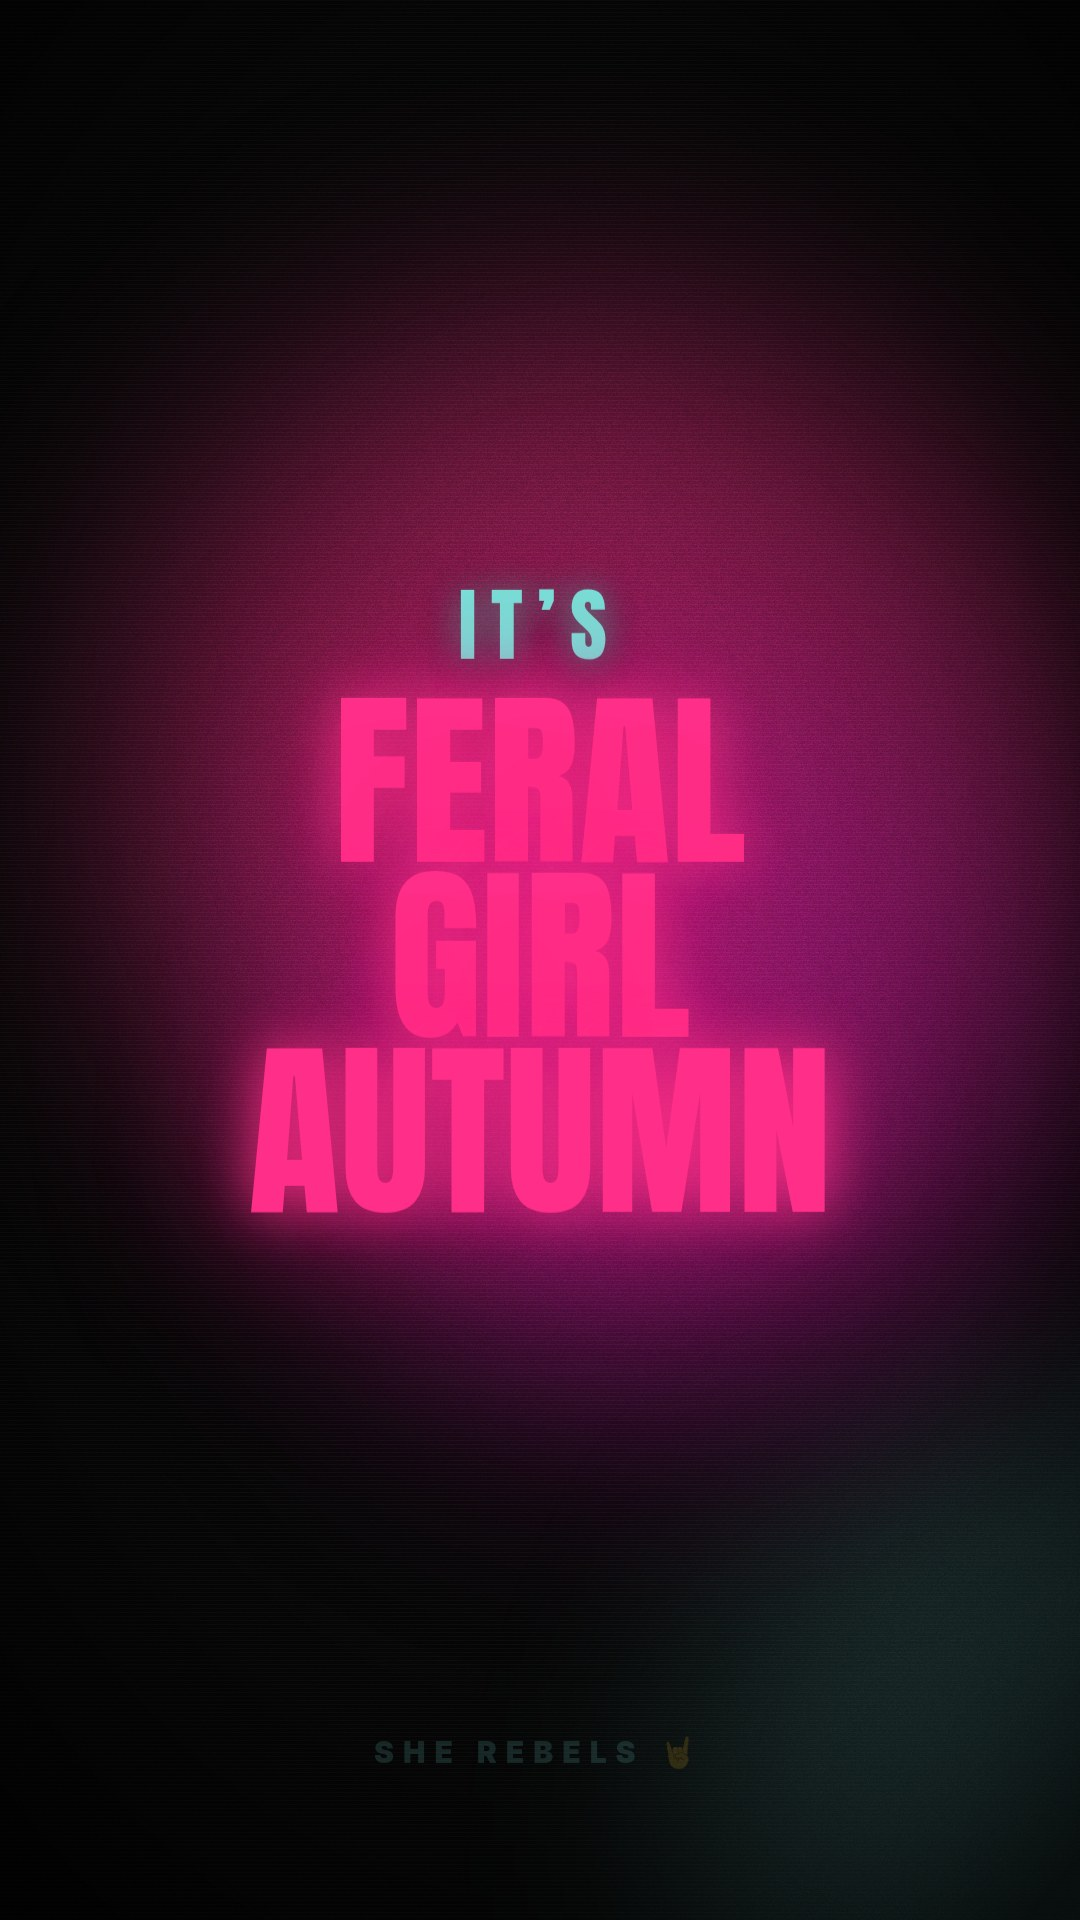
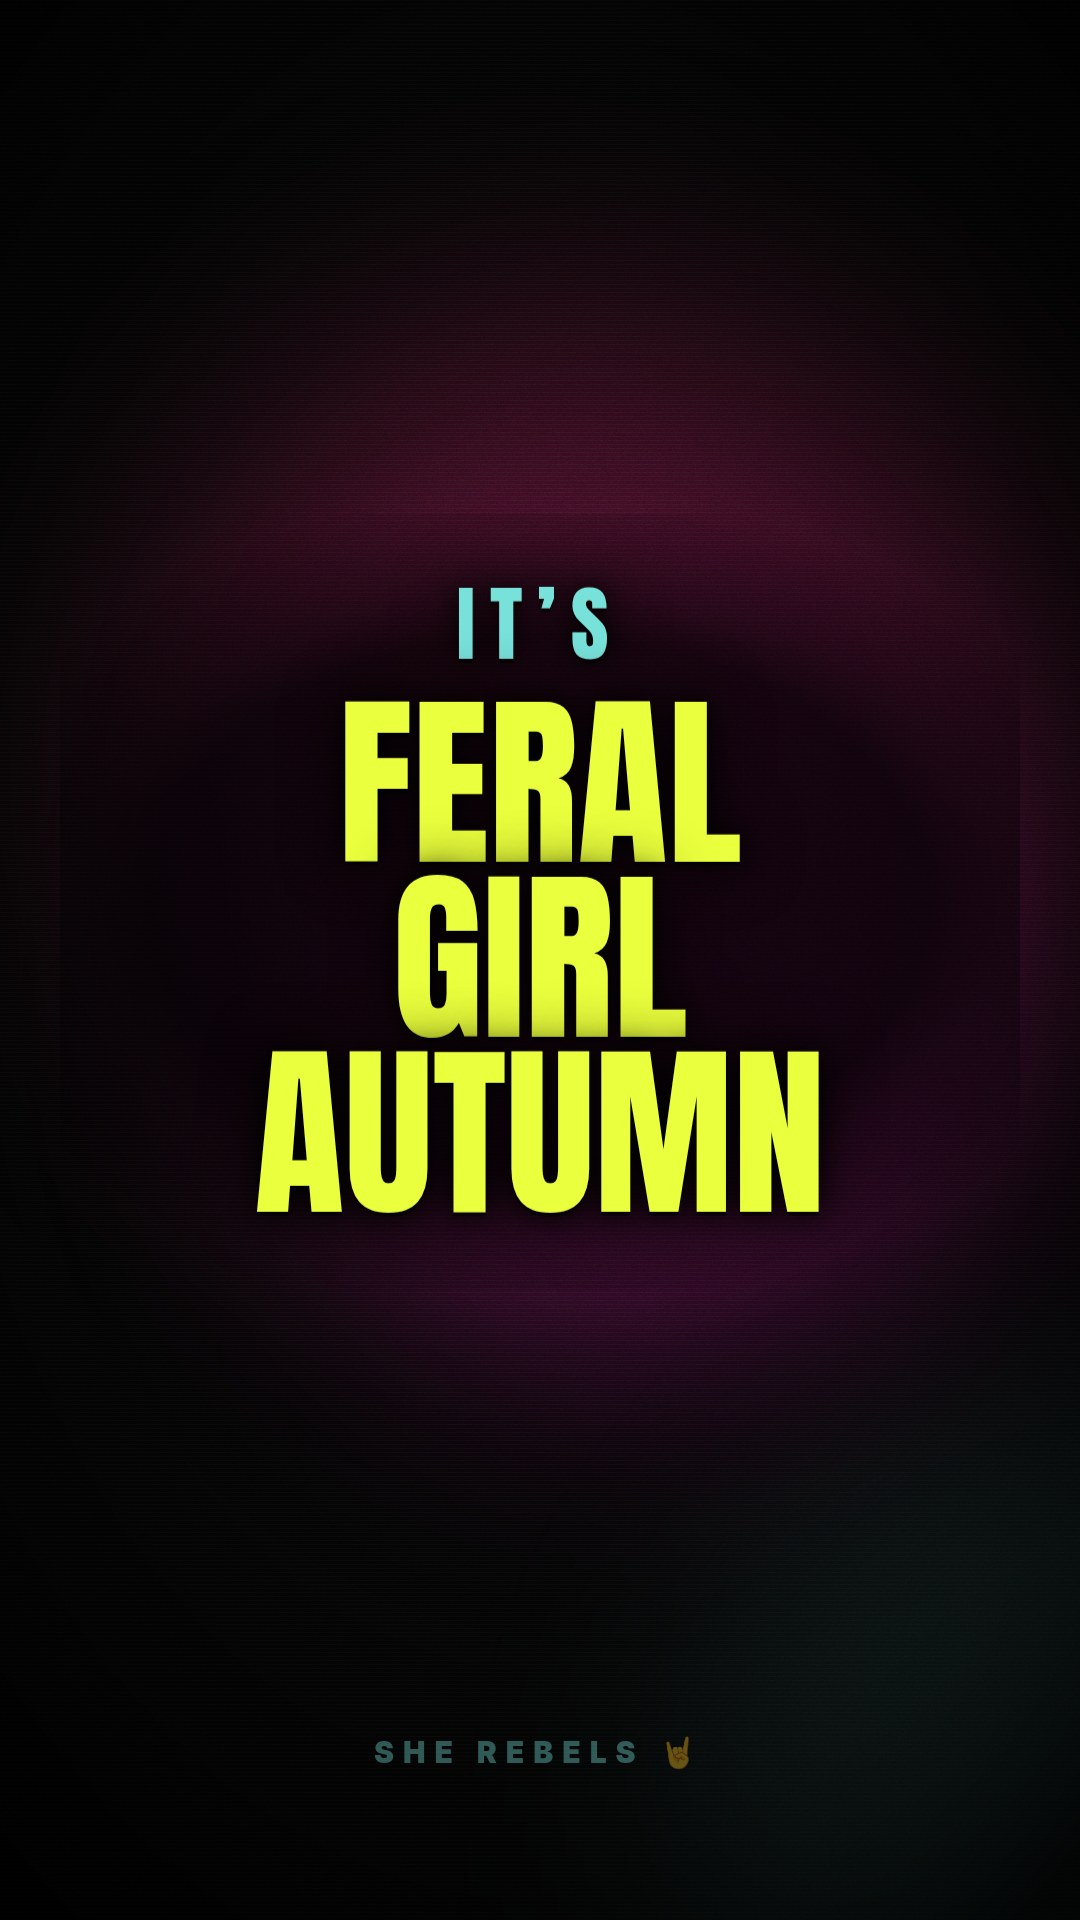
Refresh reel source and covers from the legibility render
Claude-Session: https://claude.ai/code/session_011qks84yBQ1G3Ajz67hsPdu

diff --git a/content/reels/feral-girl-autumn/src/reel.html b/content/reels/feral-girl-autumn/src/reel.html
@@ -4,21 +4,23 @@
 html,body{margin:0;padding:0;background:#000;overflow:hidden}
 #stage{position:relative;width:1080px;height:1920px;background:#0a0a0a;overflow:hidden}
 .blob{position:absolute;border-radius:50%;filter:blur(130px);will-change:transform}
-#b1{width:940px;height:940px;background:#ff2e88;opacity:.60}
-#b2{width:860px;height:860px;background:#78e2da;opacity:.42}
-#b3{width:760px;height:760px;background:#b0179c;opacity:.55}
-#vig{position:absolute;inset:0;background:radial-gradient(ellipse 78% 66% at 50% 46%,rgba(0,0,0,0) 0%,rgba(0,0,0,.34) 60%,rgba(0,0,0,.86) 100%)}
+#b1{width:940px;height:940px;background:#ff2e88;opacity:.34}
+#b2{width:860px;height:860px;background:#78e2da;opacity:.26}
+#b3{width:760px;height:760px;background:#b0179c;opacity:.34}
+#vig{position:absolute;inset:0;background:radial-gradient(ellipse 78% 66% at 50% 46%,rgba(0,0,0,0) 0%,rgba(0,0,0,.46) 58%,rgba(0,0,0,.92) 100%)}
 #grain{position:absolute;inset:-200px;opacity:.14;mix-blend-mode:overlay;background-repeat:repeat}
 #scan{position:absolute;inset:0;opacity:.045;background:repeating-linear-gradient(to bottom,rgba(255,255,255,.9) 0 1px,transparent 1px 4px)}
-#flash{position:absolute;inset:0;background:#ff2e88;opacity:0;mix-blend-mode:screen}
-.card{position:absolute;left:78px;right:78px;top:47%;text-align:center;opacity:0;will-change:transform,opacity}
+#flash{position:absolute;inset:0;background:#eaff3d;opacity:0;mix-blend-mode:screen}
+.card{position:absolute;left:60px;right:60px;top:47%;text-align:center;opacity:0;padding:70px 40px;
+  will-change:transform,opacity;
+  background:radial-gradient(ellipse 74% 62% at 50% 50%,rgba(4,4,6,.80) 0%,rgba(4,4,6,.66) 52%,rgba(4,4,6,0) 80%)}
 .ln{font-family:Anton,sans-serif;text-transform:uppercase;color:#fff;line-height:1.0;white-space:nowrap;
-  text-shadow:0 8px 44px rgba(0,0,0,.92),0 2px 6px rgba(0,0,0,.85)}
-.pink{color:#ff2e88;text-shadow:0 0 38px rgba(255,46,136,.8),0 8px 44px rgba(0,0,0,.85)}
-.cy{color:#78e2da;text-shadow:0 0 34px rgba(120,226,218,.65),0 8px 44px rgba(0,0,0,.85)}
-.yl{color:#eaff3d;text-shadow:0 0 36px rgba(234,255,61,.7),0 8px 44px rgba(0,0,0,.85)}
+  text-shadow:0 4px 0 rgba(0,0,0,.55),0 0 26px rgba(0,0,0,.95),0 0 60px rgba(0,0,0,.8)}
+.pink{color:#eaff3d;text-shadow:0 4px 0 rgba(0,0,0,.55),0 0 26px rgba(0,0,0,.95),0 0 60px rgba(0,0,0,.8)}
+.cy{color:#78e2da;text-shadow:0 4px 0 rgba(0,0,0,.55),0 0 26px rgba(0,0,0,.95),0 0 60px rgba(0,0,0,.8)}
+.yl{color:#eaff3d;text-shadow:0 4px 0 rgba(0,0,0,.55),0 0 26px rgba(0,0,0,.95),0 0 60px rgba(0,0,0,.8)}
 .hk{font-family:Inter,sans-serif;font-weight:900;letter-spacing:-.025em;line-height:1.04;white-space:nowrap;
-  text-shadow:0 8px 44px rgba(0,0,0,.95)}
+  text-shadow:0 4px 0 rgba(0,0,0,.55),0 0 26px rgba(0,0,0,.95),0 0 60px rgba(0,0,0,.8)}
 #mark{position:absolute;left:0;right:0;bottom:150px;text-align:center;font-family:Inter,sans-serif;
   font-weight:900;font-size:30px;letter-spacing:.30em;color:#78e2da;opacity:0;text-transform:uppercase}
 </style></head><body>
@@ -45,40 +47,43 @@ for (const [n,b64] of Object.entries(window.FONTS)) {
 
 const S = [
  {a:0.0 ,b:3.0 ,type:'hook'},
- {a:3.0 ,b:4.8 ,fs:165,L:['<span class="pink">F#ck</span>','hot girl summer.']},
- {a:4.8 ,b:8.0 ,type:'drop'},
- {a:8.0 ,b:10.3,fs:120,L:['I’m over 40','+ ADHD','+ <span class="cy">perimenopause.</span>']},
- {a:10.3,b:13.2,fs:106,L:['Nobody warned us','these two would team up','like a <span class="pink">villain origin story.</span>']},
- {a:13.2,b:15.0,fs:140,L:['One takes','your focus.']},
- {a:15.0,b:17.7,fs:120,L:['The other takes','whatever <span class="yl">f#cks you','had left.</span>']},
- {a:17.7,b:19.9,fs:126,L:['I remember being','a fully functional adult.']},
- {a:19.9,b:22.0,fs:150,L:['Just kidding.','<span class="pink">I don’t remember.</span>']},
- {a:22.0,b:24.4,fs:132,L:['I don’t remember','walking into','this room either.']},
- {a:24.4,b:26.5,fs:180,L:['I cried at','<span class="cy">Costco.</span>']},
- {a:26.5,b:29.4,fs:106,L:['My hormones and dopamine','went on vacation without me.','<span class="pink">Ash-holes.</span>']},
- {a:29.4,b:31.6,fs:132,L:['<span class="cy">Unfiltered</span>','is our new','default mode.']},
- {a:31.6,b:34.3,fs:112,L:['Uniform: sweatpants','and an attitude.','<span class="pink">Any attitude, anytime.</span>']},
- {a:34.3,b:36.3,fs:150,L:['Say no','like it’s <span class="cy">cardio.</span>']},
- {a:36.3,b:39.0,fs:106,L:['Saying the quiet parts','out loud is our','<span class="yl">social currency.</span>']},
- {a:39.0,b:42.3,fs:100,L:['Let AI do the boring crap','so your <span class="yl">3 good brain hours</span>','go to what matters.']},
- {a:42.3,b:44.0,fs:160,L:['You’re not','broken.']},
- {a:44.0,b:48.0,fs:88 ,L:['You’re running an outdated system','never built for neurodivergent,','<span class="pink">perimenopausal goblins</span>','<span class="pink">on wrecking balls.</span>']},
- {a:48.0,b:50.4,fs:112,L:['Drop your','<span class="cy">feral girl autumn rule</span>','below.']},
- {a:50.4,b:53.4,fs:132,L:['Follow me into','<span class="pink">feral girl autumn.</span>','<span style="font-size:1.15em">🤘</span>']},
+ {a:3.0 ,b:5.0 ,fs:170,L:['<span class="yl">F#ck</span>','hot girl summer.']},
+ {a:5.0 ,b:8.4 ,type:'drop'},
+ {a:8.4 ,b:11.0,fs:130,L:['I’m over 40','+ ADHD','+ <span class="cy">perimenopause.</span>']},
+ {a:11.0,b:13.8,fs:120,L:['Nobody warned us','these two would team up','like a <span class="yl">villain origin story.</span>']},
+ {a:13.8,b:15.8,fs:150,L:['One takes','your focus.']},
+ {a:15.8,b:18.4,fs:140,L:['The other takes','whatever <span class="yl">f#cks</span>','<span class="yl">you had left.</span>']},
+ {a:18.4,b:20.6,fs:135,L:['I remember being','a fully','functional adult.']},
+ {a:20.6,b:23.0,fs:150,L:['Just kidding.','<span class="yl">I can’t remember ship.</span>']},
+ {a:23.0,b:25.2,fs:185,L:['I cried at','<span class="cy">Costco.</span>']},
+ {a:25.2,b:27.8,fs:140,L:['My hormones','and dopamine','went on vacation.']},
+ {a:27.8,b:30.0,fs:170,L:['Without me.','<span class="yl">Ash-holes.</span>']},
+ {a:30.0,b:32.2,fs:150,L:['<span class="cy">Unfiltered</span>','is the new','default mode.']},
+ {a:32.2,b:34.8,fs:140,L:['Uniform: sweatpants','and an attitude.']},
+ {a:34.8,b:36.8,fs:150,L:['<span class="yl">Any attitude.</span>','<span class="yl">Anytime.</span>']},
+ {a:36.8,b:38.8,fs:160,L:['Say no','like it’s <span class="cy">cardio.</span>']},
+ {a:38.8,b:41.4,fs:130,L:['Saying the quiet parts','out loud is our','<span class="yl">social currency.</span>']},
+ {a:41.4,b:43.6,fs:150,L:['Let AI do','the boring crap.']},
+ {a:43.6,b:46.4,fs:130,L:['So your <span class="yl">3 good brain hours</span>','go to','what matters.']},
+ {a:46.4,b:48.4,fs:185,L:['You’re not','broken.']},
+ {a:48.4,b:51.0,fs:135,L:['You’re running','an outdated system','never built for you.']},
+ {a:51.0,b:54.4,fs:135,L:['Neurodivergent,','<span class="yl">perimenopausal goblins</span>','on wrecking balls.']},
+ {a:54.4,b:56.8,fs:140,L:['Drop your','<span class="cy">feral girl autumn rule</span>','below.']},
+ {a:56.8,b:59.8,fs:145,L:['Follow me into','<span class="yl">feral girl autumn.</span>','<span style="font-size:1.15em">🤘</span>']},
 ];
-const DUR = 53.4, MAXW = 924, MAXH = 1180;
+const DUR = 59.8, MAXW = 900, MAXH = 1120;
 
 const wrap=document.getElementById('cards');
 const els = S.map(s=>{
   const d=document.createElement('div'); d.className='card';
   if(s.type==='hook'){
-    d.innerHTML='<div class="hk" id="hk1" style="font-size:100px;color:#fff">Doctor: it’s perimenopause</div>'+
+    d.innerHTML='<div class="hk" id="hk1" style="font-size:104px;color:#ffffff">Doctor: it’s perimenopause</div>'+
                 '<div class="hk yl" id="hk2" style="font-size:118px;margin-top:44px">ADHD: good luck, b!tch</div>';
   } else if(s.type==='drop'){
-    d.innerHTML='<div class="ln cy" style="font-size:80px;letter-spacing:.18em;margin-bottom:30px">It’s</div>'+
-                '<div class="ln pink" id="dropTxt" style="font-size:190px;line-height:.92">Feral</div>'+
-                '<div class="ln pink dropL" style="font-size:190px;line-height:.92">Girl</div>'+
-                '<div class="ln pink dropL" style="font-size:190px;line-height:.92">Autumn</div>';
+    d.innerHTML='<div class="ln cy" style="font-size:82px;letter-spacing:.18em;margin-bottom:30px">It’s</div>'+
+                '<div class="ln yl" style="font-size:186px;line-height:.94">Feral</div>'+
+                '<div class="ln yl" style="font-size:186px;line-height:.94">Girl</div>'+
+                '<div class="ln yl" style="font-size:186px;line-height:.94">Autumn</div>';
   } else {
     d.innerHTML = s.L.map(l=>`<div class="ln" style="font-size:${s.fs}px">${l}</div>`).join('');
   }
@@ -113,7 +118,7 @@ window.render = function(t){
   const f=Math.floor(t*30);
   GR.style.transform=`translate(${(f*67)%220-110}px,${(f*113)%220-110}px)`;
   const dp=S[2];
-  FL.style.opacity = (t>=dp.a && t<dp.a+0.32) ? String(0.6*(1-(t-dp.a)/0.32)) : '0';
+  FL.style.opacity = (t>=dp.a && t<dp.a+0.32) ? String(0.34*(1-(t-dp.a)/0.32)) : '0';
   MK.style.opacity = t>6.2 ? String(0.5*ease((t-6.2)/1.2)) : '0';
 
   els.forEach((el,i)=>{
@@ -134,8 +139,7 @@ window.render = function(t){
       if(k<0.5) sc=0.60+0.46*ease(k/0.5);
       const sh=k<0.55?(1-k/0.55)*14:0;
       y += sh*Math.sin(k*58);
-      const g=`0 0 ${46+26*Math.sin(t*7)}px rgba(255,46,136,.95),0 0 140px rgba(255,46,136,.5)`;
-      el.querySelectorAll('.pink').forEach(n=>n.style.textShadow=g);
+      el.style.background=`radial-gradient(ellipse 78% 66% at 50% 50%,rgba(2,2,4,${0.90-0.05*Math.sin(t*7)}) 0%,rgba(2,2,4,.74) 52%,rgba(2,2,4,0) 80%)`;
     }
     el.style.opacity=String(o);
     el.style.transform=`translateY(calc(-50% + ${y}px)) scale(${sc})`;
